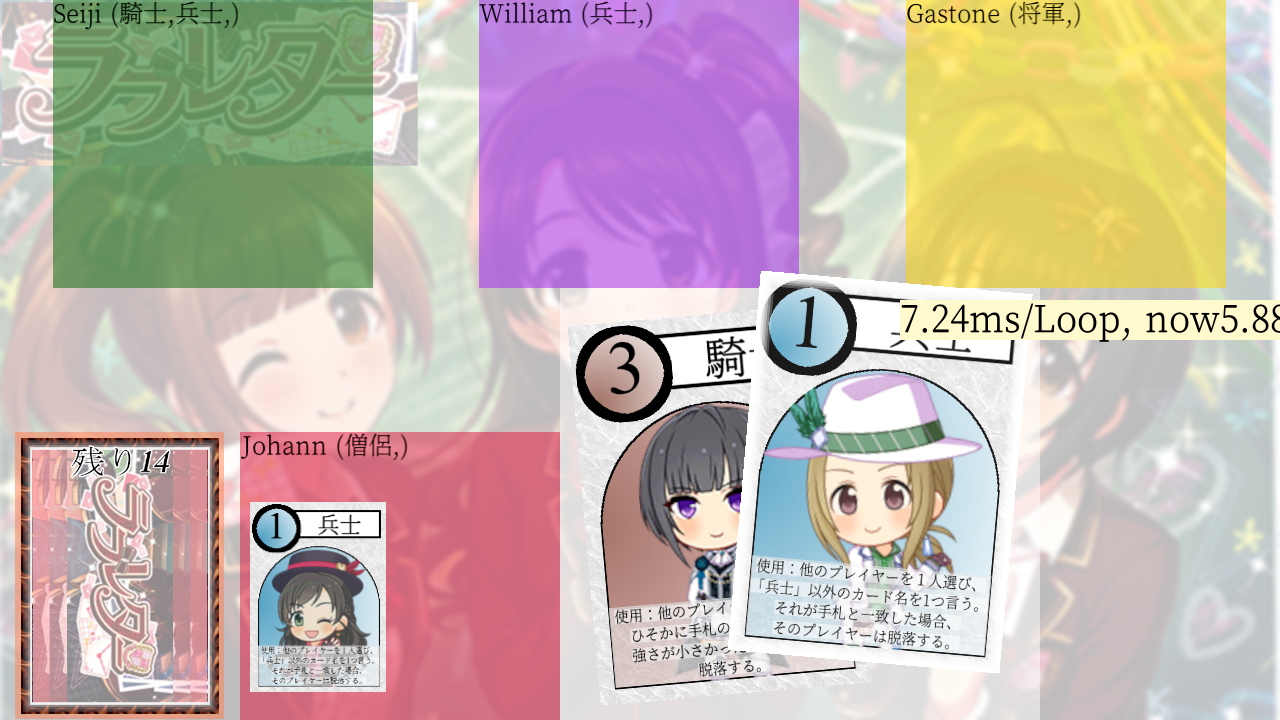
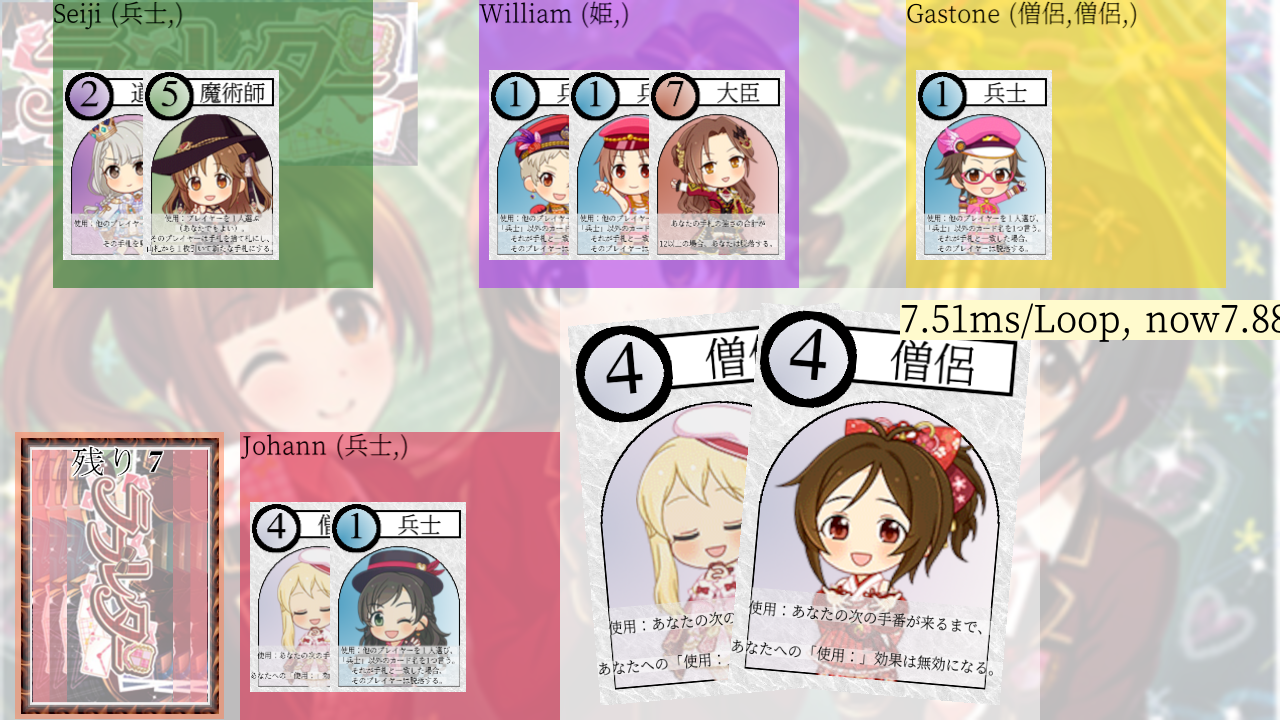
L252:大臣の効果の注入まで

diff --git a/ll/seed/default_deck.py b/ll/seed/default_deck.py
@@ -3,12 +3,13 @@ from random import shuffle
 from typing import Callable
 
 from any.locales import kames
-from kard.douke_effect import DoukeEffect
 from kard.heisi_effect import HeisiEffect
+from kard.douke_effect import DoukeEffect
 from kard.kisi_effect import KisiEffect
 from kard.souryo_effect import SouryoEffect
-from kard.syougun_effect import SyougunEffect
 from kard.mazyutusi_effect import MazyutusiEffect
+from kard.syougun_effect import SyougunEffect
+from kard.daizin_effect import DaizinEffect
 from model.effect import Effect
 from model.in_effect_kard import InEffectKard
 from model.kard import Kard
@@ -39,6 +40,9 @@ mazyutusi_effect = MazyutusiEffect(
 syougun_effect = SyougunEffect(
     guards_async=router.guards_async,
     exchange_kards_async=router.exchange_kards_async
+)
+daizin_effect = DaizinEffect(
+    defeat_by_ministers=router.defeat_by_ministers_async
 )
 
 @dataclass
@@ -109,7 +113,7 @@ class DefaultDeck():
             (KardID.SOURYO, lambda : kames(folder="souryo", key="name"), 4, souryo_effect.effect),
             (KardID.MAZYUTUSI, lambda : kames(folder="mazyutusi", key="name"), 5, mazyutusi_effect.effect),
             (KardID.SYOUGUN, lambda : kames(folder="syougun", key="name"), 6, syougun_effect.effect),
-            (KardID.DAIZIN, lambda : kames(folder="daizin", key="name"), 7, _func),
+            (KardID.DAIZIN, lambda : kames(folder="daizin", key="name"), 7, daizin_effect.effect),
             (KardID.HIME, lambda : kames(folder="hime", key="name"), 8, _func)
         ]
         return kc_params

diff --git a/ll/kard/daizin_effect.py b/ll/kard/daizin_effect.py
@@ -1,0 +1,35 @@
+from dataclasses import dataclass
+from typing import Callable
+
+from model.board import Board
+from model.effect import Effect
+from model.player import Player
+from ptc.bridge import Bridge
+
+@dataclass
+class DaizinEffect():
+    defeat_by_ministers: Callable[[Player], None]
+    '''フックに掛ける非同期処理を担うController.action命令を注入する。
+    '''
+
+    def drawn_func(self, bridge: Bridge, player: Player) -> None:
+        '''ドロー時に呼ばれる命令。
+        '''
+        self.commit_board(
+            board=bridge.board,
+            player=player,
+        )
+
+    def commit_board(
+            self, board: Board, player: Player,
+    ) -> None:
+        '''Boardのデータを実際に更新する命令。
+        '''
+        if sum(kard.rank for kard in player.hands) >= 12:
+            self.defeat_by_ministers(player)
+            board.retire(player=player)
+            return
+
+    @property
+    def effect(self) -> Effect:
+        return Effect(drawn_func=self.drawn_func)

diff --git a/ll/ctrl/defeat_by_ministers.py b/ll/ctrl/defeat_by_ministers.py
@@ -1,14 +1,21 @@
-from any.locales import lomes
+from dataclasses import dataclass
+from typing import Callable
+
+from any.locales import kames
 from model.player import Player
 from ptc.bridge import Bridge
 from view.message_view import MessageView
 
+@dataclass
 class DefeatByMinistersController():
-    def __init__(self, bridge: Bridge) -> None:
-        self.bridge = bridge
+    injector: Callable[[], Bridge]
+
+    @property
+    def bridge(self) -> Bridge:
+        return self.injector()
 
     def action(self, player: Player) -> None:
         self.bridge.whileloop(new_view=MessageView(
             view=self.bridge.view,
-            img_mes=lomes(folder="kard", key="defeat_by_ministers", player_name=player.name)
+            img_mes=kames(folder="daizin", key="defeat_by_ministers", player_name=player.name)
         ))

diff --git a/ll/seed/default_router.py b/ll/seed/default_router.py
@@ -1,5 +1,6 @@
 from any.router import Router
 from ctrl.arrests import ArrestsController
+from ctrl.defeat_by_ministers import DefeatByMinistersController
 from ctrl.duels import DuelsController
 from ctrl.exchange_kards import ExchangeKardsController
 from ctrl.guards import GuardsController
@@ -8,6 +9,9 @@ from ctrl.protects import ProtectsController
 
 router = Router()
 router.arrests_async = ArrestsController(
+    injector=router.bridge_injector
+).action
+router.defeat_by_ministers_async = DefeatByMinistersController(
     injector=router.bridge_injector
 ).action
 router.duels_async = DuelsController(

diff --git a/ll/any/router.py b/ll/any/router.py
@@ -9,6 +9,7 @@ from ptc.bridge import Bridge, EMPTY_BRIDGE
 class Router():
     bridge: Bridge = field(default_factory=lambda: EMPTY_BRIDGE)
     arrests_async: Callable[[Player, Kard], None] = lambda p, k: None
+    defeat_by_ministers_async: Callable[[Player], None] = lambda p: None
     duels_async: Callable[[Player, Player], None] = lambda p1, p2: None
     guards_async: Callable[[str], None] = lambda s: None
     exchange_kards_async: Callable[[Player, Player], None] = lambda p1, p2: None

diff --git a/ll/model/board.py b/ll/model/board.py
@@ -40,6 +40,9 @@ class Board:
         """プレイヤーがカードを引く処理を行います。"""
         self.draw_kard_async(player)
         player.hands.append(self.deck.pop(0))
+        # for kard in player.hands:
+        #     if player.alive:
+        #         kard.drawn_func()
         # from model.deck import KARD_DAIZIN
         # if KARD_DAIZIN in player.hands and sum(kard.rank for kard in player.hands) >= 12:
         #     self.defeat_by_daizin_async(player)
